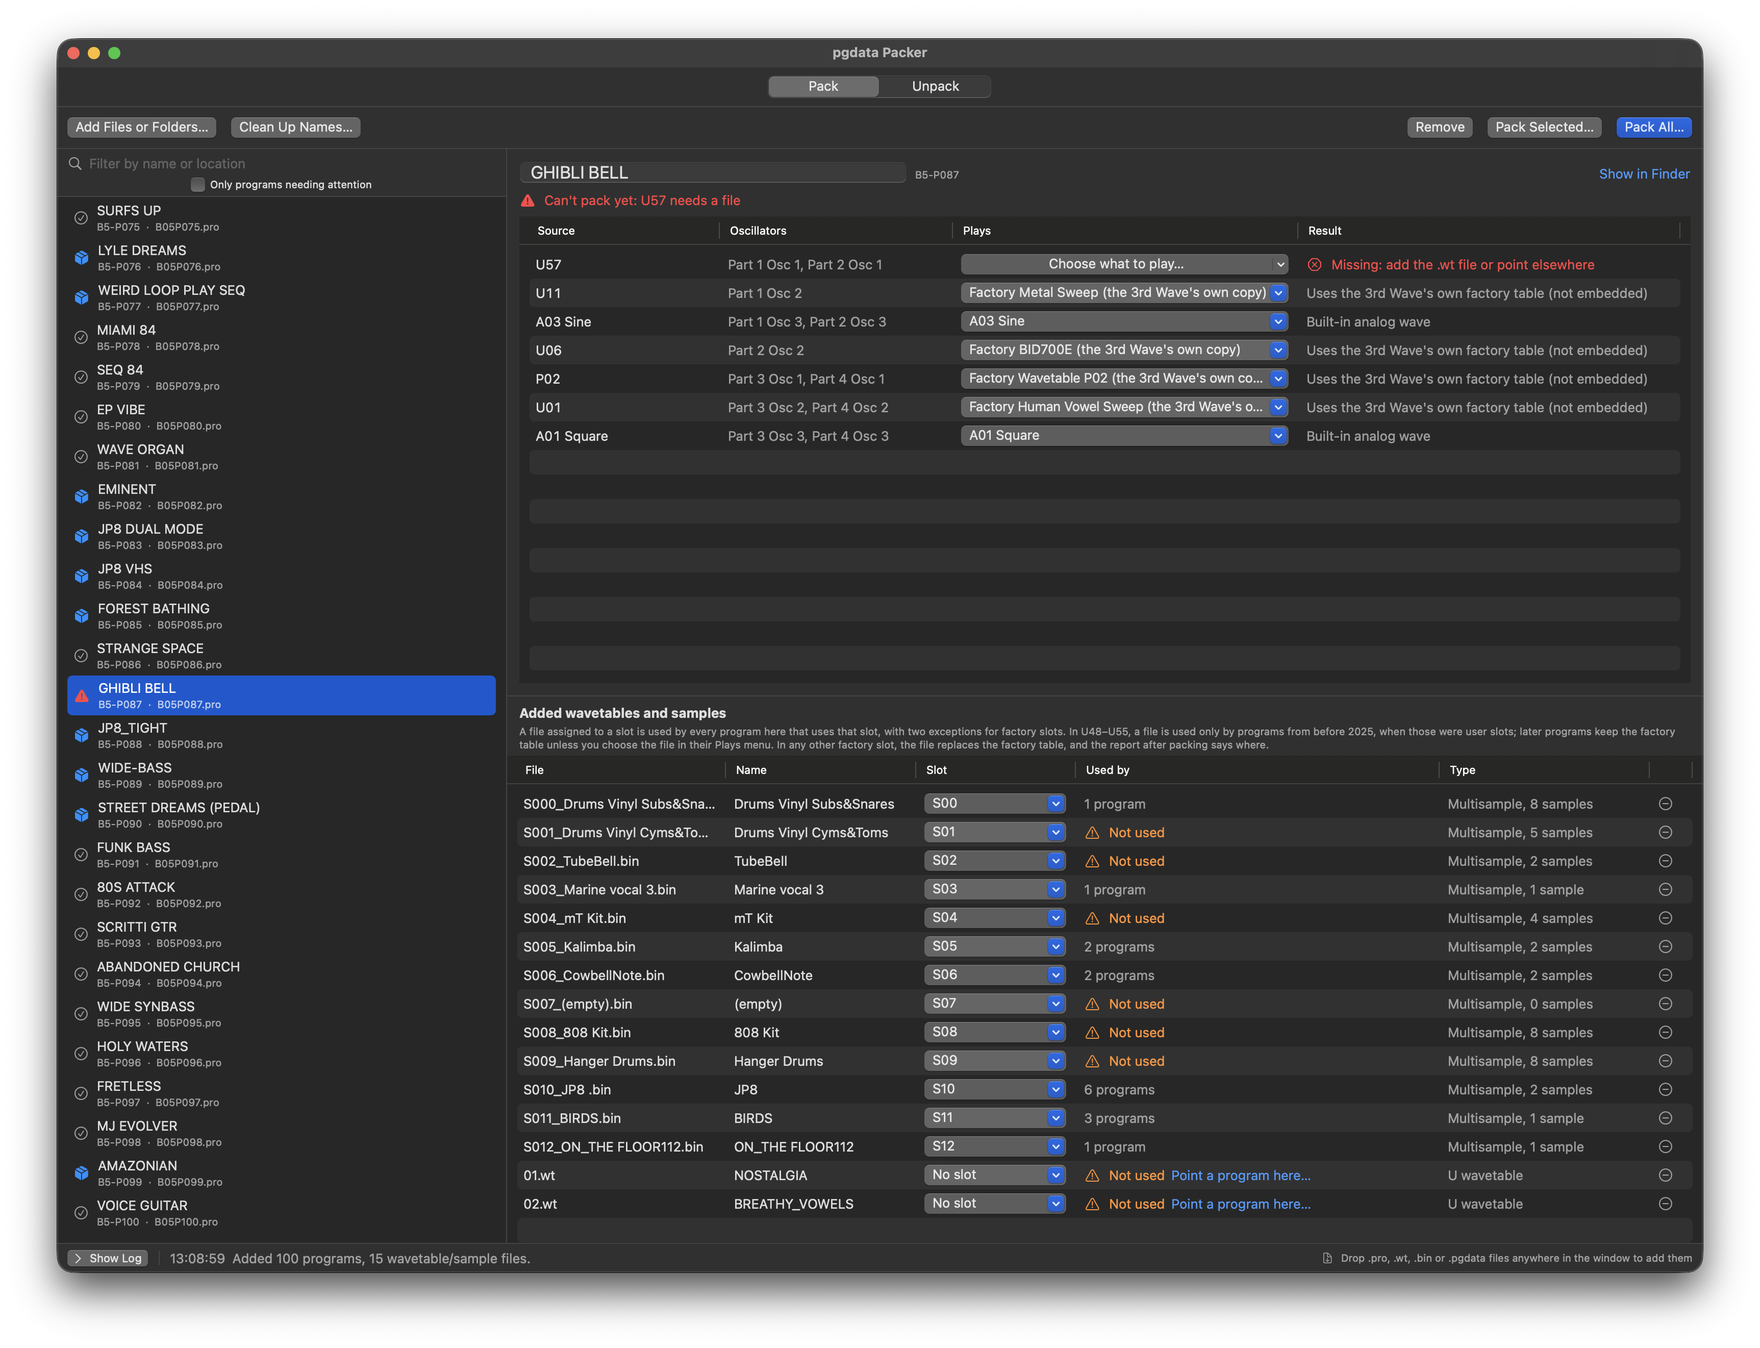
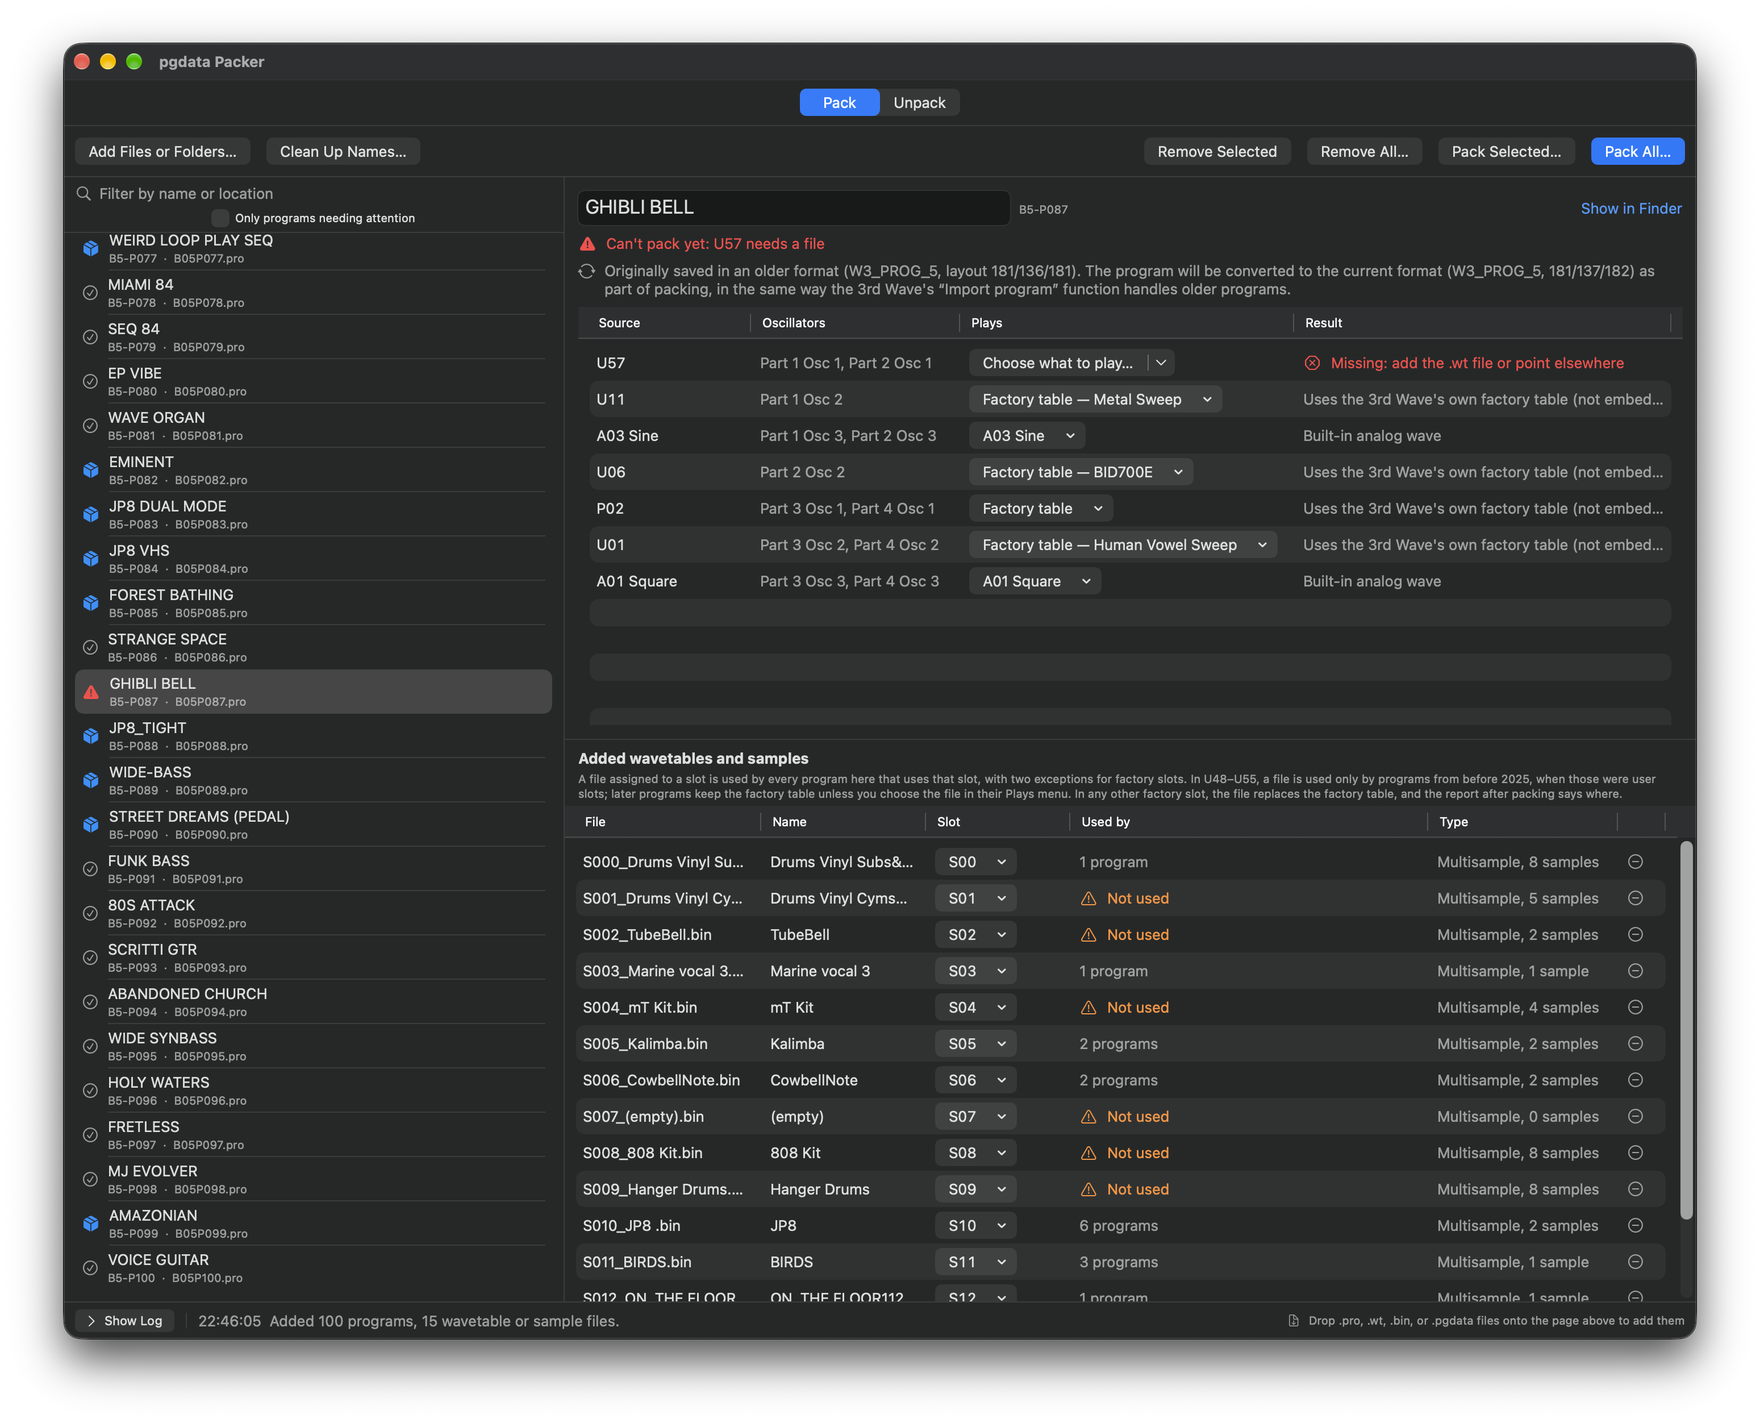
README: current Pack page and report screenshots
Claude-Session: https://claude.ai/code/session_01XYV2MMJ8J3LKfMw39CSJsT

diff --git a/README.md b/README.md
@@ -198,7 +198,7 @@ section can come out a little larger. Each embedded U table adds about 0.5 MB, e
 the app asks first whether to pack the others. Existing files are never replaced without asking,
 and the report at the end can open the folder in the Finder.
 
-![The report after packing, listing the input files no packed program uses and, where it is not obvious, why](docs/pack-report.png)
+![The report after packing: every program was converted from an older format, and seven added files were left out because no packed program uses them](docs/pack-report.png)
 
 Files are named in Groove Synthesis's own pattern, with the program location first:
 `B05P87_Glass_Bells.pgdata`, as in Groove Synthesis's `B05P06_Glass_Cow_Bell_Transients.pgdata`.
